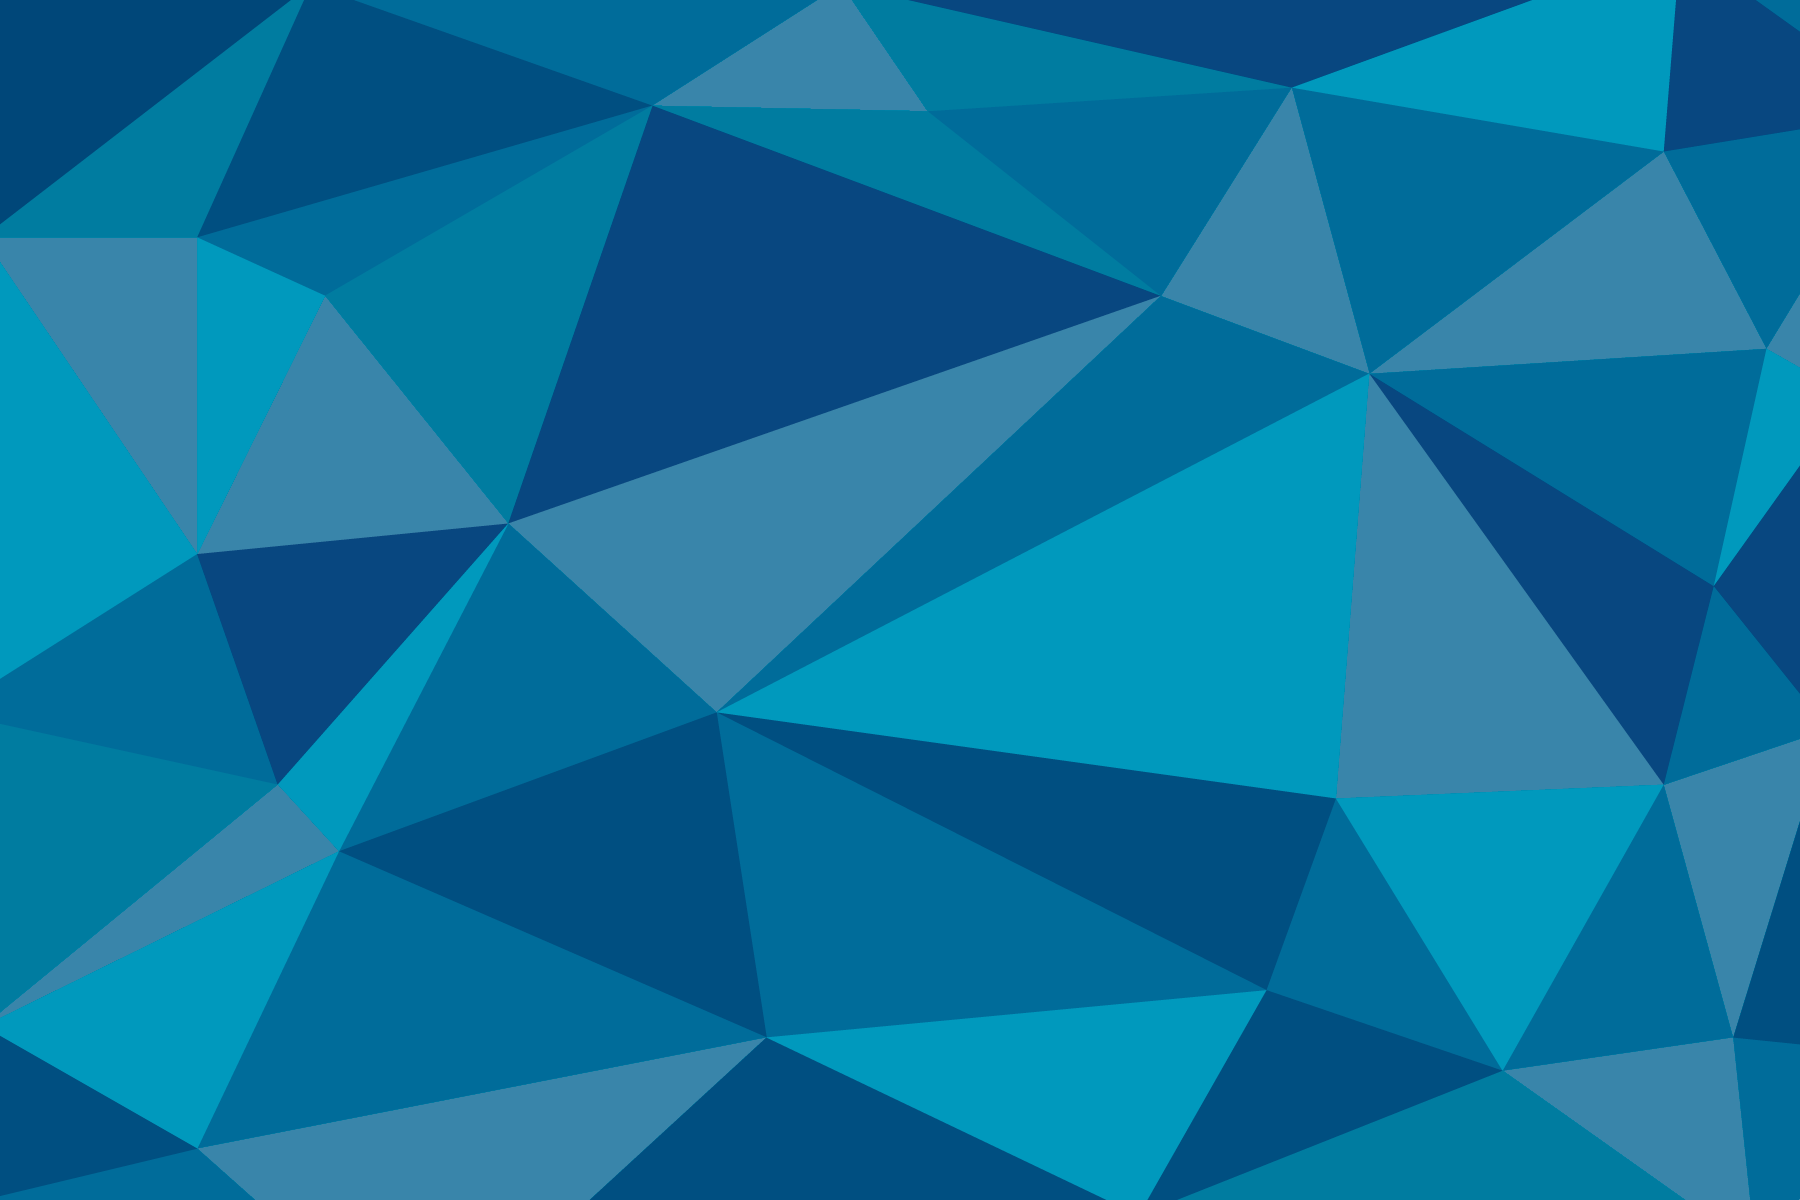
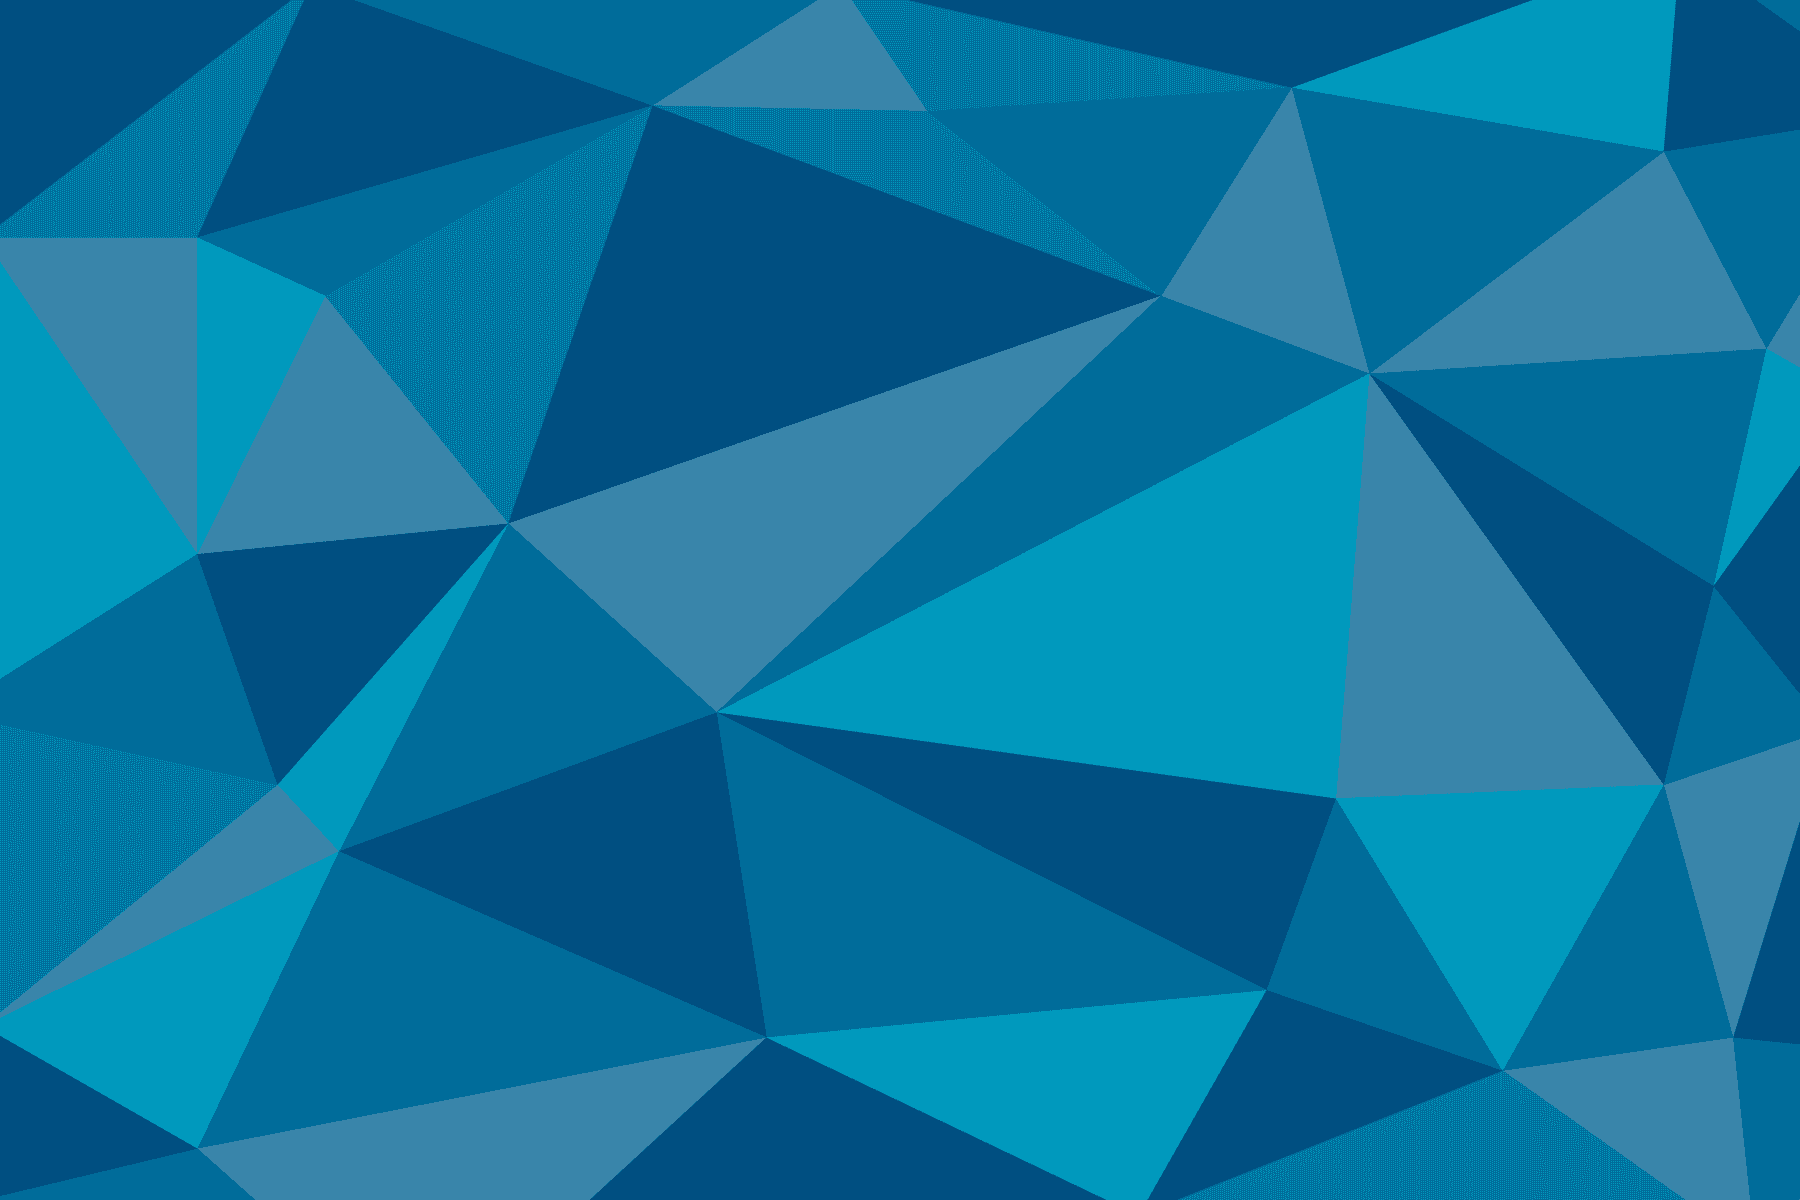
optimised header images

diff --git a/style.css b/style.css
@@ -1,0 +1,221 @@
+@font-face {
+    font-family: Lato-light;
+    src: url(fonts/lato-light.ttf);
+}
+
+body {
+	background-color: white;
+}
+
+h1, h2, h3 {
+    text-align: center;
+}
+
+h1 {
+	font-family: Lato-light;
+	font-size: 30px;
+	margin: 0;
+	padding: 15px;
+}
+
+h2 {
+	font-family: Lato-light;
+	font-size: 18px;
+	padding-top: 5px;
+	margin: 0;
+}
+
+h3 {
+	font-family: Lato-light;
+	font-size: 18px;
+	margin: 0;
+	padding: 26px;
+}
+
+p {
+	font-family: Lato-light;
+	font-size: 18px;
+	padding-top: 30px;
+	padding-bottom: 10px;
+}
+
+.global_container {
+	width: 100%;
+	margin-right: auto;
+	margin-left: auto;
+	max-width: 1024px;
+	position: relative;
+}
+
+header {
+	width: 100%;
+	height: 500px;
+	text-align: center;
+	max-width: 1024px;
+	margin-left: auto;
+	margin-right: auto;
+
+	background-repeat: no-repeat;
+	background-position: center;
+	
+	background-size: cover;
+	position: relative;
+}
+
+.nav_container {
+	width: 91%;
+	text-align: center;
+	width: 100%;
+}
+
+nav {
+	background-color:rgba(255,255,255,.85);
+	width: 100%;
+	bottom: -250px;
+	position: relative;
+}
+
+.row {
+	margin-left: 0;
+	max-width: none;
+}
+
+.company_img {
+	background-repeat: no-repeat;
+	background-position: center;
+	background-size: cover;
+	position: relative;
+	height: 100px;
+}
+
+.fixed_nav {
+	top: 0;
+	position: fixed;
+	z-index: 1;
+}
+
+.title {
+	height: 100%;
+	width: 66.66%;
+	background-color: blue;
+	float: left;
+	padding-top: 7px;
+}
+/*
+.nav_button:hover { 
+    background-color:rgba(132,165,171,.6);
+}
+*/
+main {
+	width: 90%;
+	margin-right: auto;
+	margin-left: auto;
+}
+
+summary {
+	text-align: center;
+}
+
+.company_icon {
+	margin-bottom: 17px;
+}
+
+.project_thumb {
+	position: relative;
+	height: 100px;
+	width: 100px;
+	background-color: yellow;
+
+}
+
+.overlay-container {
+	position: relative;
+	height: 100%;
+	width: 100%;
+	text-align: center;
+
+}
+
+.project_title_block {
+	width: 100%;
+
+	padding: 5px;
+	text-align: center;
+
+	position: absolute;
+	top: 25%;
+}
+
+.company_thumb {
+	height: 50px;
+	margin-bottom: 5px;
+}
+
+p1 {
+	font-family: Lato-light;
+	font-size: 18px;
+	color: white;
+}
+
+.footer_container {
+	background-color: #5F5F5F;
+}
+
+.footer {
+	height: 80px;
+	text-align: center;
+	margin-right: auto;
+	margin-left: auto;
+	background-color: #5F5F5F;
+	width: 200px;
+	padding-top: 20px;
+}
+
+.social_icon {
+	height: 40px;
+}
+
+
+@media (max-width: 640px) {
+
+nav {
+	bottom: 0px;
+	position: absolute;
+	}
+
+header {
+	background-position: right;
+	height: 300px;
+	}
+
+h1 {
+	font-size: 25px;
+	padding: 10px;
+	padding-bottom: 0;
+}
+
+h3 {
+	font-size: 15px;
+	padding: 15px;
+}
+
+@media (min-width: 1080px) {
+  main {
+	width: 100%;
+	}
+}
+
+@media (max-width: 400px) {
+
+p1 {
+	font-size: 14px;
+}
+
+.company_thumb {
+	height: 40px;
+	margin-bottom: 5px;
+}
+
+
+
+}

diff --git a/assets/css/style.css b/assets/css/style.css
@@ -229,7 +229,7 @@ input {
       rgba(34, 167, 240, 0.45)
     ),
 
-    url(../img/home/header_img.jpg);
+    url(../img/home/header_img.png);
 	
 	padding-top: 5px;
 	background-attachment: relative;
@@ -427,15 +427,15 @@ input {
 }
 
 .cloud-h {
-	background: url(../img/cloud/cloud-header.jpg) no-repeat center top;
+	background: url(../img/cloud/cloud-header.png) no-repeat center top;
 }
 
 .spoke-h {
-	background: url(../img/spoke/spoke-header.jpg) no-repeat center top;
+	background: url(../img/spoke/spoke-header.png) no-repeat center top;
 }
 
 .skills-h {
-	background: url(../img/skills/skills-header.jpg) no-repeat center top;
+	background: url(../img/skills/skills-header.png) no-repeat center top;
 }
 
 #h2 {

diff --git a/index.html b/index.html
@@ -85,6 +85,7 @@
     <div class="portfolio-centered mt">
       <div class="recentitems portfolio">
 
+
 <!--
         <div class="portfolio-item graphic-design">
           <a href="watson.html">
@@ -99,6 +100,7 @@
             </div>
           </a>
         </div>
+
 -->
 
         <div class="portfolio-item graphic-design">
